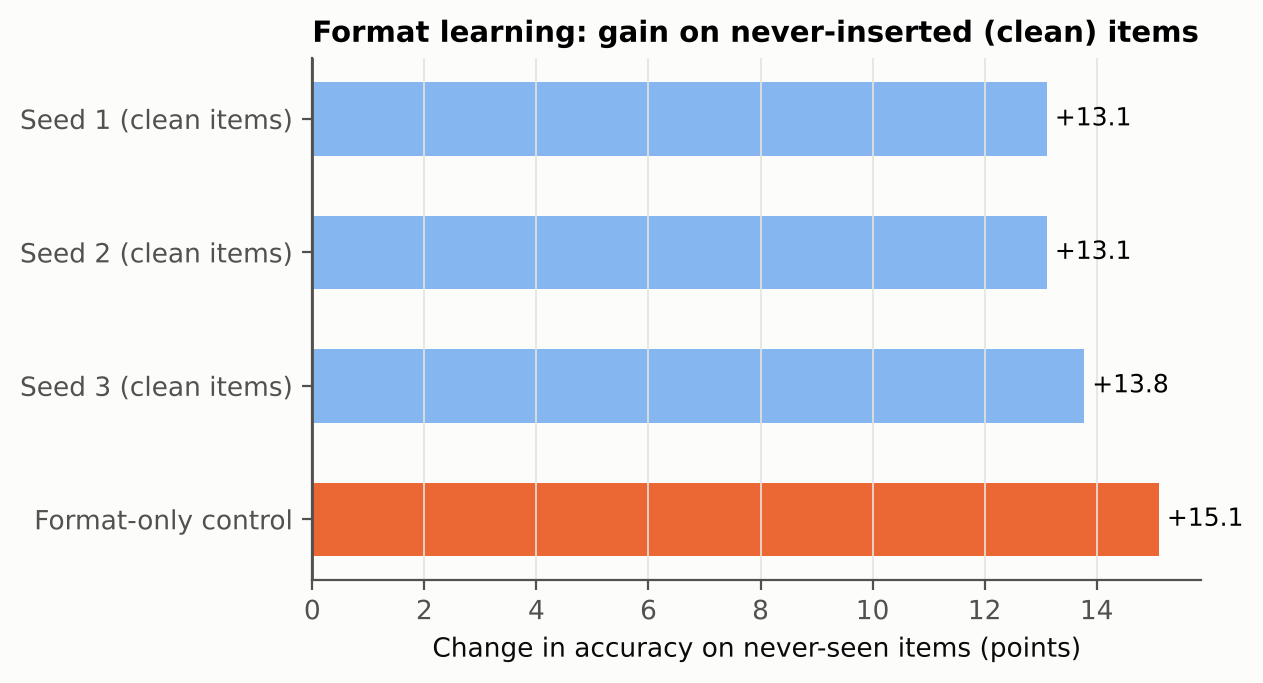
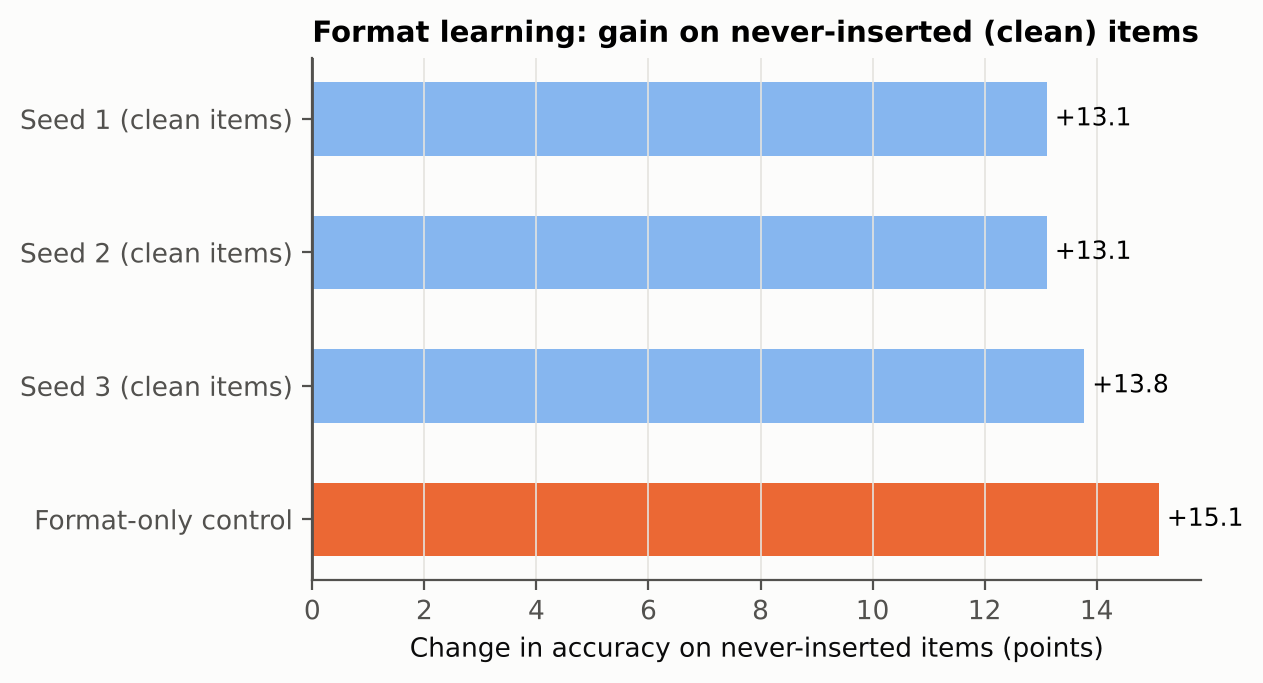
Figures: distinguishable training-loss lines; consistent 'never-inserted' label

Changed region(s): [[0.3397, 0.9224, 0.8646, 0.9839]]

diff --git a/dcl/figures.py b/dcl/figures.py
@@ -304,7 +304,7 @@ def fig_control(ctrl, out):
         ax.text(x, i, f" {x:+.1f}", va="center", fontsize=9)
     ax.axvline(0, color=INK2, lw=1)
     ax.invert_yaxis()
-    ax.set_xlabel("Change in accuracy on never-seen items (points)")
+    ax.set_xlabel("Change in accuracy on never-inserted items (points)")
     ax.grid(axis="y", visible=False)
     ax.set_title("Format learning: gain on never-inserted (clean) items", loc="left")
     return _save(fig, out, "fig11_format_control")
@@ -317,8 +317,8 @@ def fig_training_loss(root, out):
     fig, ax = plt.subplots(figsize=(7, 3.4))
     for k, f in enumerate(files):
         d = pd.read_csv(f)
-        ax.plot(d["step"], d["loss"].rolling(10, min_periods=1).mean(), lw=1.5, color=CAT[k % 6] if k < 6 else INK2,
-                label=f.stem.replace("_trainloss", ""))
+        ax.plot(d["step"], d["loss"].rolling(10, min_periods=1).mean(), lw=1.4, color=CAT[k % 6] if k < 6 else INK2,
+                ls="-" if k < 6 else ("--" if k == 6 else ":"), label=f.stem.replace("_trainloss", ""))
     ax.set_xlabel("Optimiser step")
     ax.set_ylabel("Training loss (10-step mean)")
     ax.legend(fontsize=8, ncol=2)
